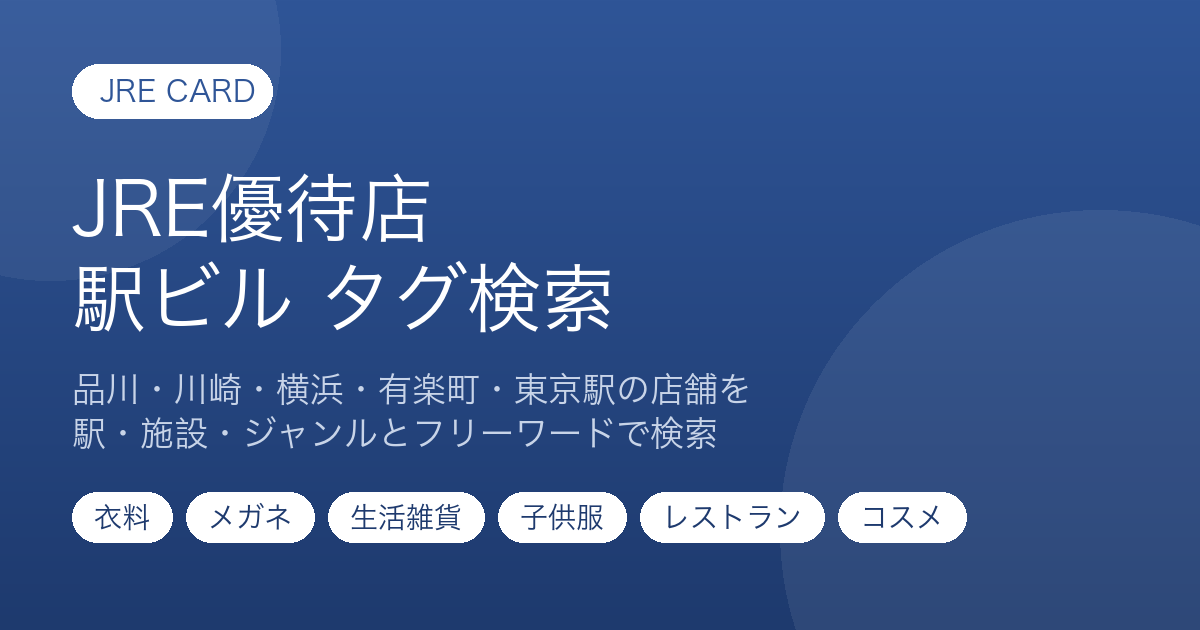
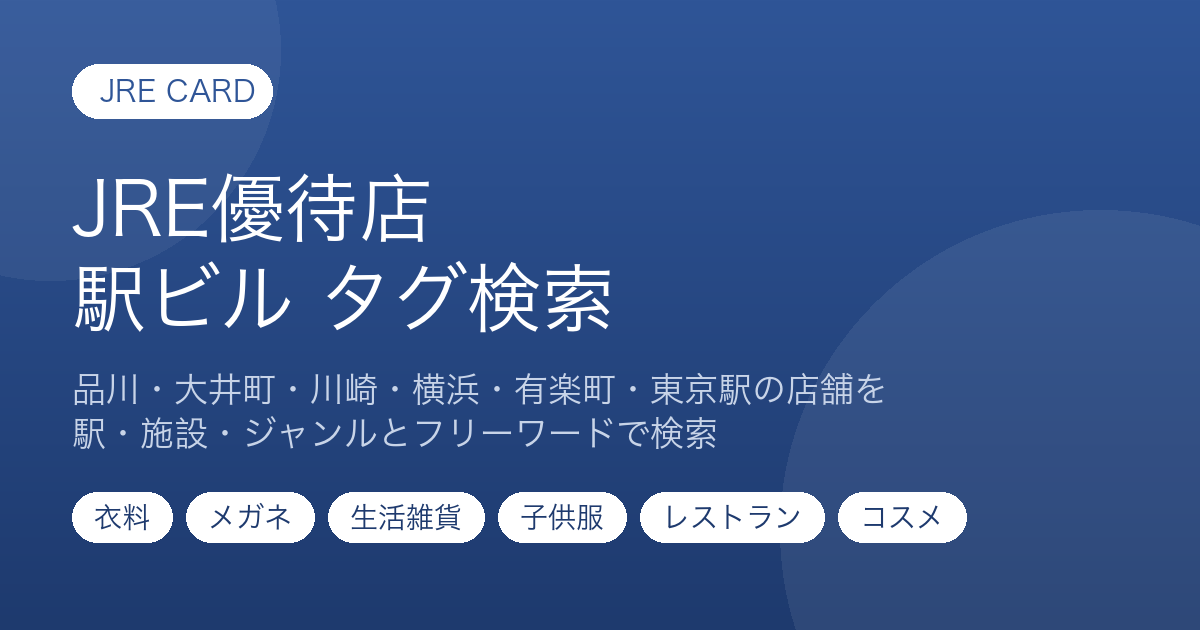
OGP・ヘッダーに大井町を追加し、og-imageを再生成
meta description / og:title / og:description / twitter:title / twitter:description
およびページヘッダー本文に「大井町」を追加。
make_og_image.pyのサブタイトルも更新してog-image.pngを再生成。

Changed region(s): [[0.4317, 0.573, 0.74, 0.6635], [0.1233, 0.573, 0.4008, 0.6635]]

diff --git a/docs/index.html b/docs/index.html
@@ -4,13 +4,13 @@
 <meta charset="UTF-8">
 <meta name="viewport" content="width=device-width, initial-scale=1.0">
 <title>JRE優待店 駅ビル検索</title>
-<meta name="description" content="品川・川崎・横浜・有楽町・東京駅の駅ビル店舗を、駅・施設・ジャンル（タグ）とフリーワードで検索できる非公式ガイドです。">
+<meta name="description" content="品川・大井町・川崎・横浜・有楽町・東京駅の駅ビル店舗を、駅・施設・ジャンル（タグ）とフリーワードで検索できる非公式ガイドです。">
 
 <!-- Open Graph -->
 <meta property="og:type" content="website">
 <meta property="og:site_name" content="JRE優待店 駅ビル検索">
-<meta property="og:title" content="JRE優待店 駅ビル検索 | 品川・川崎・横浜・有楽町・東京">
-<meta property="og:description" content="品川・川崎・横浜・有楽町・東京駅の駅ビル店舗を、駅・施設・ジャンル（タグ）とフリーワードで検索できる非公式ガイドです。">
+<meta property="og:title" content="JRE優待店 駅ビル検索 | 品川・大井町・川崎・横浜・有楽町・東京">
+<meta property="og:description" content="品川・大井町・川崎・横浜・有楽町・東京駅の駅ビル店舗を、駅・施設・ジャンル（タグ）とフリーワードで検索できる非公式ガイドです。">
 <meta property="og:url" content="https://yossato.github.io/j/">
 <meta property="og:image" content="https://yossato.github.io/j/og-image.png">
 <meta property="og:image:width" content="1200">
@@ -19,8 +19,8 @@
 
 <!-- Twitter (X) Card -->
 <meta name="twitter:card" content="summary_large_image">
-<meta name="twitter:title" content="JRE優待店 駅ビル検索 | 品川・川崎・横浜・有楽町・東京">
-<meta name="twitter:description" content="品川・川崎・横浜・有楽町・東京駅の駅ビル店舗を、駅・施設・ジャンル（タグ）とフリーワードで検索できる非公式ガイドです。">
+<meta name="twitter:title" content="JRE優待店 駅ビル検索 | 品川・大井町・川崎・横浜・有楽町・東京">
+<meta name="twitter:description" content="品川・大井町・川崎・横浜・有楽町・東京駅の駅ビル店舗を、駅・施設・ジャンル（タグ）とフリーワードで検索できる非公式ガイドです。">
 <meta name="twitter:image" content="https://yossato.github.io/j/og-image.png">
 <style>
   :root {
@@ -195,7 +195,7 @@
 <body>
 <header>
   <h1>JRE優待店 駅ビル検索</h1>
-  <p>品川・川崎・横浜・有楽町・東京駅の駅ビル内テナントを、駅・施設・ジャンル・フリーワードで検索できます</p>
+  <p>品川・大井町・川崎・横浜・有楽町・東京駅の駅ビル内テナントを、駅・施設・ジャンル・フリーワードで検索できます</p>
 </header>
 <div class="container">
   <div class="controls">

diff --git a/make_og_image.py b/make_og_image.py
@@ -47,7 +47,7 @@ draw.text((PAD, 260), "駅ビル タグ検索", font=title_font, fill=WHITE)
 
 # サブタイトル
 sub_font = font(34)
-draw.text((PAD, 372), "品川・川崎・横浜・有楽町・東京駅の店舗を", font=sub_font, fill=MUTED)
+draw.text((PAD, 372), "品川・大井町・川崎・横浜・有楽町・東京駅の店舗を", font=sub_font, fill=MUTED)
 draw.text((PAD, 416), "駅・施設・ジャンルとフリーワードで検索", font=sub_font, fill=MUTED)
 
 # タグ風チップを並べる
